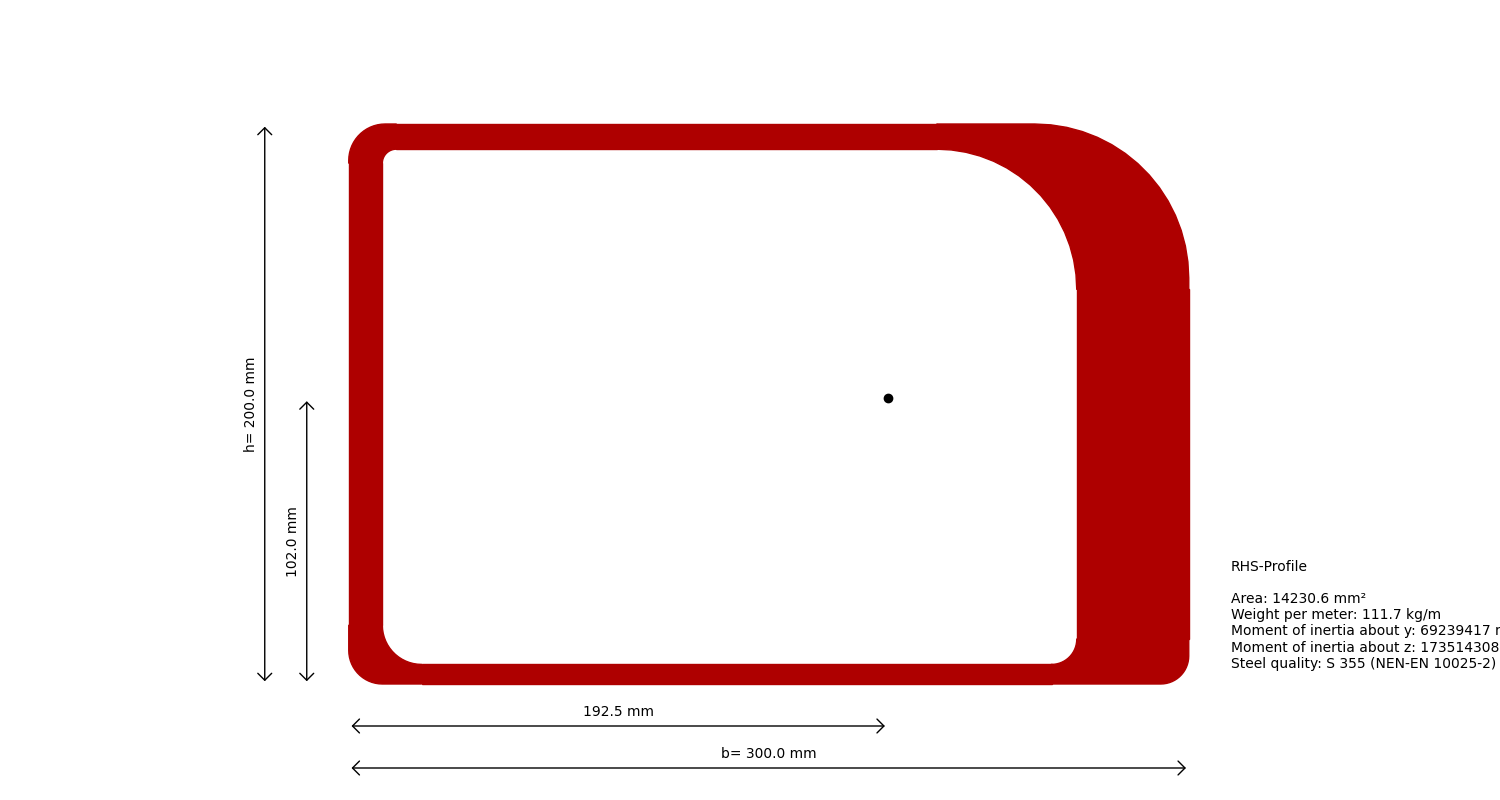
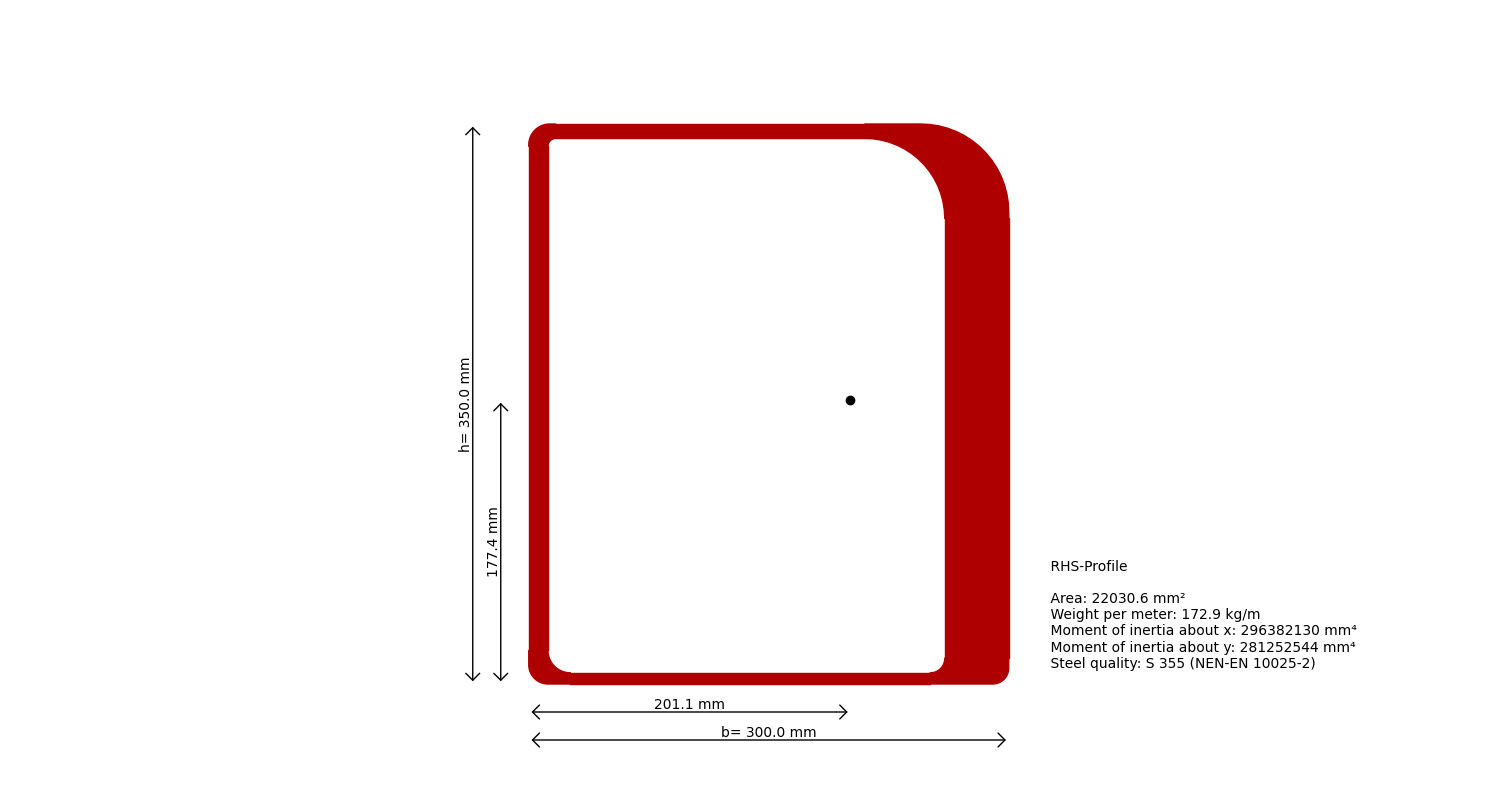
Update RHS profile dimensions and corresponding documentation for improved accuracy

diff --git a/docs/examples/_code/steel_profile_shapes.py b/docs/examples/_code/steel_profile_shapes.py
@@ -102,7 +102,7 @@ rhs_profile.plot(show=False)
 custom_rhs_profile = RHSSteelProfile(
     steel_material=steel_material,
     total_width=300,  # mm
-    total_height=200,  # mm
+    total_height=350,  # mm
     left_wall_thickness=12,  # mm
     right_wall_thickness=40,  # mm
     top_wall_thickness=9,  # mm

diff --git a/docs/examples/steel_profile_shapes.md b/docs/examples/steel_profile_shapes.md
@@ -34,7 +34,7 @@ A plot of this profile can be generated using the `plot` method. A show=True mak
 
 Its properties can be accessed as follows:
 ```python
----8<-- "examples/_code/steel_profile_shapes.py:32:38"
+---8<-- "examples/_code/steel_profile_shapes.py:32:32"
 ```
 ```terminaloutput
 Steel class: SteelMaterial(steel_class=<SteelStrengthClass.S355: (<SteelStandardGroup.EN_10025_2: 'NEN-EN 10025-2'>, 'S 355')>, density=7850.0, diagram_type=<DiagramType.BI_LINEAR: 'Bi-Linear'>, quality_class=None, custom_name=None, custom_e_modulus=None, custom_poisson_ratio=None, custom_thermal_coefficient=None, custom_yield_strength=None, custom_ultimate_strength=None)
@@ -55,18 +55,18 @@ All section properties: SectionProperties(area=np.float64(829.2971942461268), pe
 Alternatively, define a custom CHS profile by specifying its dimensions:
 
 ```python
---8<-- "examples/_code/steel_profile_shapes.py:40:45"
+--8<-- "examples/_code/steel_profile_shapes.py:34:39"
 ```
 
 A plot of this custom profile can be generated using the `plot` method. A show=True makes the plot appear:
 ```python
----8<-- "examples/_code/steel_profile_shapes.py:47:47"
+---8<-- "examples/_code/steel_profile_shapes.py:41:41"
 ```
 ![Custom CHS Profile](./_images/steel_profile_custom_chs.png)
 
 Its properties can be accessed as follows:
 ```python
----8<-- "examples/_code/steel_profile_shapes.py:48:48"
+---8<-- "examples/_code/steel_profile_shapes.py:42:42"
 ```
 ```terminaloutput
 All section properties of custom CHS profile: SectionProperties(area=np.float64(4397.788151305911), perimeter=471.2270701716454, mass=np.float64(4397.788151305911), ea=np.float64(4397.788151305911), ga=np.float64(2198.8940756529555), nu_eff=np.float64(0.0), e_eff=np.float64(1.0), g_eff=np.float64(0.5), qx=np.float64(-4.3075942812720314e-10), qy=np.float64(-2.837632351315733e-10), ixx_g=np.float64(10828466.102927726), iyy_g=np.float64(10828466.10292771), ixy_g=np.float64(-2.5585791263438296e-09), cx=np.float64(-6.452408014408574e-14), cy=np.float64(-9.79491083487708e-14), ixx_c=np.float64(10828466.102927726), iyy_c=np.float64(10828466.10292771), ixy_c=np.float64(-2.5585791263438573e-09), zxx_plus=np.float64(144379.54803903616), zxx_minus=np.float64(144379.54803903654), zyy_plus=np.float64(144379.54803903602), zyy_minus=np.float64(144379.54803903628), rx_c=np.float64(49.621092091432914), ry_c=np.float64(49.621092091432885), i11_c=np.float64(10828466.102927726), i22_c=np.float64(10828466.10292771), phi=0.0, z11_plus=np.float64(144379.54803903616), z11_minus=np.float64(144379.54803903654), z22_plus=np.float64(144379.54803903602), z22_minus=np.float64(144379.54803903628), r11_c=np.float64(49.621092091432914), r22_c=np.float64(49.621092091432885), j=np.float64(21656932.205855437), my_xx=np.float64(144379.54803903613), my_yy=np.float64(144379.54803903602), my_11=np.float64(144379.54803903613), my_22=np.float64(144379.54803903602), omega=array([-1.16366227e-11, -2.61335265e-11, -1.27721256e-11, ...,
@@ -82,19 +82,19 @@ All section properties of custom CHS profile: SectionProperties(area=np.float64(
 Predefined strip profiles are also available:
 
 ```python
---8<-- "examples/_code/steel_profile_shapes.py:50:55"
+--8<-- "examples/_code/steel_profile_shapes.py:44:49"
 ```
 
 A plot of this profile can be generated using the `plot` method. A show=True makes the plot appear:
 ```python
----8<-- "examples/_code/steel_profile_shapes.py:57:57"
+---8<-- "examples/_code/steel_profile_shapes.py:51:51"
 ```
 
 ![Standard Strip Profile](./_images/steel_profile_strip_160_5_corrosion_1.png)
 
 Its properties can be accessed as follows:
 ```python
----8<-- "examples/_code/steel_profile_shapes.py:58:58"
+---8<-- "examples/_code/steel_profile_shapes.py:52:52"
 ```
 
 ### Custom Strip Profile
@@ -102,19 +102,19 @@ Its properties can be accessed as follows:
 Define a custom strip profile by specifying its width and height:
 
 ```python
---8<-- "examples/_code/steel_profile_shapes.py:60:65"
+--8<-- "examples/_code/steel_profile_shapes.py:54:59"
 ```
 
 A plot of this custom profile can be generated using the `plot` method. A show=True makes the plot appear:
 ```python
----8<-- "examples/_code/steel_profile_shapes.py:67:67"
+---8<-- "examples/_code/steel_profile_shapes.py:61:61"
 ```
 
 ![Custom Strip Profile](./_images/steel_profile_custom_strip.png)
 
 Its properties can be accessed as follows:
 ```python
----8<-- "examples/_code/steel_profile_shapes.py:68:68"
+---8<-- "examples/_code/steel_profile_shapes.py:62:62"
 ```
 
 ## I Profiles (IPE, HEA, HEB, etc.)
@@ -124,18 +124,18 @@ Its properties can be accessed as follows:
 Predefined I profiles are also available:
 
 ```python
---8<-- "examples/_code/steel_profile_shapes.py:70:75"
+--8<-- "examples/_code/steel_profile_shapes.py:64:69"
 ```
 
 A plot of this profile can be generated using the `plot` method. A show=True makes the plot appear:
 ```python
----8<-- "examples/_code/steel_profile_shapes.py:77:77"
+---8<-- "examples/_code/steel_profile_shapes.py:71:71"
 ```
 ![Standard I Profile](./_images/steel_profile_heb600_corrosion_7.png)
 
 Its properties can be accessed as follows:
 ```python
----8<-- "examples/_code/steel_profile_shapes.py:78:78"
+---8<-- "examples/_code/steel_profile_shapes.py:72:72"
 ```
 
 It you desire to use a different standard profile, you can change the `profile_name` parameter in the `IProfile` constructor.
@@ -147,19 +147,19 @@ Check all available profiles in this package: `blueprints.structural_sections.st
 Define a custom I profile by specifying its width and height:
 
 ```python
---8<-- "examples/_code/steel_profile_shapes.py:80:91"
+--8<-- "examples/_code/steel_profile_shapes.py:74:85"
 ```
 
 A plot of this custom profile can be generated using the `plot` method. A show=True makes the plot appear:
 ```python
----8<-- "examples/_code/steel_profile_shapes.py:93:93"
+---8<-- "examples/_code/steel_profile_shapes.py:87:87"
 ```
 
 ![Custom I Profile](./_images/steel_profile_custom_i_profile.png)
 
 Its properties can be accessed as follows:
 ```python
----8<-- "examples/_code/steel_profile_shapes.py:94:94"
+---8<-- "examples/_code/steel_profile_shapes.py:88:88"
 ```
 
 ## Rectangular Hollow Profiles (RHS, SHS, RHSCF, SHSCF)
@@ -169,18 +169,18 @@ Its properties can be accessed as follows:
 Predefined RHS profiles are also available:
 
 ```python
---8<-- "examples/_code/steel_profile_shapes.py:96:102"
+--8<-- "examples/_code/steel_profile_shapes.py:90:96"
 ```
 
 A plot of this profile can be generated using the `plot` method. A show=True makes the plot appear:
 ```python
----8<-- "examples/_code/steel_profile_shapes.py:104:104"
+---8<-- "examples/_code/steel_profile_shapes.py:98:98"
 ```
 ![Standard I Profile](./_images/steel_profile_rhs_400x200x16_corrosion_0.png)
 
 Its properties can be accessed as follows:
 ```python
----8<-- "examples/_code/steel_profile_shapes.py:105:105"
+---8<-- "examples/_code/steel_profile_shapes.py:99:99"
 ```
 
 It you desire to use a different standard profile, you can change the `profile_name` parameter in the `IProfile` constructor.
@@ -192,19 +192,19 @@ Check all available profiles in this package: `blueprints.structural_sections.st
 Define a custom RHS profile by specifying its width and height:
 
 ```python
---8<-- "examples/_code/steel_profile_shapes.py:107:124"
+--8<-- "examples/_code/steel_profile_shapes.py:101:118"
 ```
 
 A plot of this custom profile can be generated using the `plot` method. A show=True makes the plot appear:
 ```python
----8<-- "examples/_code/steel_profile_shapes.py:126:126"
+---8<-- "examples/_code/steel_profile_shapes.py:120:120"
 ```
 
 ![Custom RHS Profile](./_images/steel_profile_custom_rhs.png)
 
 Its properties can be accessed as follows:
 ```python
----8<-- "examples/_code/steel_profile_shapes.py:127:127"
+---8<-- "examples/_code/steel_profile_shapes.py:121:121"
 ```
 
 <a name="full-code-example">
